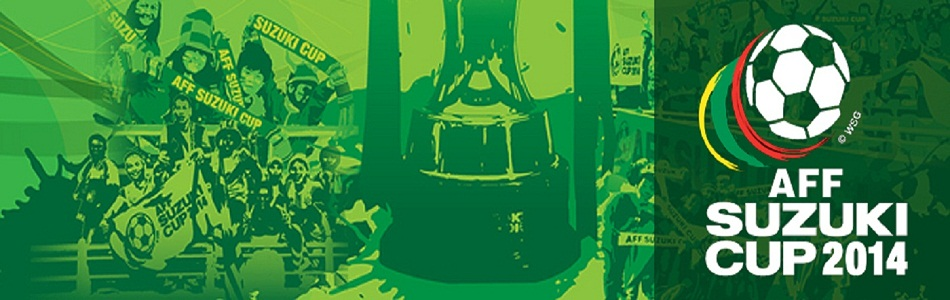
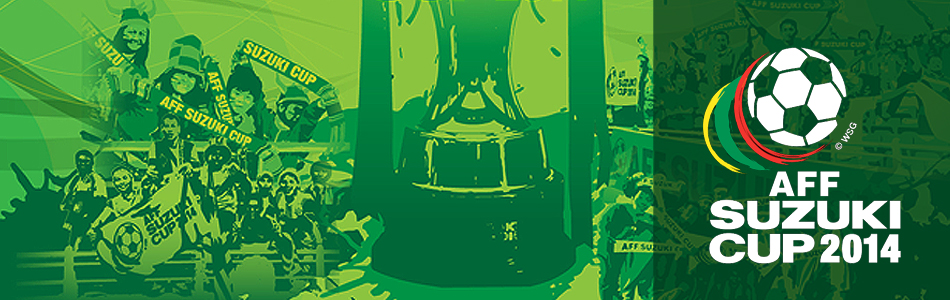
mc

diff --git a/wp-content/themes/redcard/taxonomy-footballtags-aff-suzuki-cup.php b/wp-content/themes/redcard/taxonomy-footballtags-aff-suzuki-cup.php
@@ -4,11 +4,6 @@
  */
 get_header(); ?>
 <div id="suzuki-header">
-  <div class="baba">
-    <span >#RedCardConnect</span>
-    <span >#AFFSuzukiCup</span>
-    <span >#LionKings</span>  
-  </div>
   <div class="main">
     <div class="row" >
         <div class="col-sm-7">
@@ -36,11 +31,12 @@ get_header(); ?>
 <style>
 .main{ color: black; background: URL('/suzuki-images/slice.png') repeat-x; margin-top: 10px; width: 620px;}
 .suzuki-menu{ float: right;}
-#suzuki-header{background: URL('/suzuki-images/r1.jpg') 0 0; background-size: 100%; margin-top: 15px; font-family: 'FF DIN';}
+#suzuki-header{padding: 10px 0;
+  background: URL('/suzuki-images/r1.jpg') 0 0; background-size: 100%; margin-top: 15px; font-family: 'FF DIN';}
 
 .news{ width: 50; display:block; background: URL('/suzuki-images/news.png'); }
 .dada{width:50px; height:30px; display:block; overflow:hidden; margin:0 auto; }
-.baba span{ font-size:18px; color: #fff; margin:15px 0 0 10px; }
+
 .raj{background:URL('/suzuki-images/r.jpg'); }
 .suzuki-menu > li a{ color: #fff;}
 .suzuki-menu > li{ width: 96px;

diff --git a/wp-content/themes/redcard/template-suzuki-cup.php b/wp-content/themes/redcard/template-suzuki-cup.php
@@ -6,11 +6,6 @@ get_header(); ?>
 
 
  <div id="suzuki-header">
-	<div class="baba">
-		<span >#RedCardConnect</span>
-		<span >#AFFSuzukiCup</span>
-		<span >#LionKings</span>  
-	</div>
 	<div class="main">
 		<div class="row" >
 		   	<div class="col-sm-7">
@@ -40,11 +35,12 @@ get_header(); ?>
 <style>
 .main{ color: black; background: URL('/suzuki-images/slice.png') repeat-x; margin-top: 10px; width: 620px;}
 .suzuki-menu{ float: right;}
-#suzuki-header{background: URL('/suzuki-images/r1.jpg') 0 0; background-size: 100%; margin-top: 15px; font-family: 'FF DIN'; }
+#suzuki-header{ padding: 10px 0;
+	background: URL('/suzuki-images/r1.jpg') 0 0; background-size: 100%; margin-top: 15px; font-family: 'FF DIN'; }
 
 .news{ width: 50; display:block; background: URL('/suzuki-images/news.png'); }
 .dada{width:50px; height:30px; display:block; overflow:hidden; margin:0 auto; }
-.baba span{ font-size:18px; color: #fff; margin:15px 0 0 10px; }
+
 .raj{background:URL('/suzuki-images/r.jpg'); }
 .suzuki-menu > li a{ color: #fff;}
 .suzuki-menu > li{ width: 96px;
